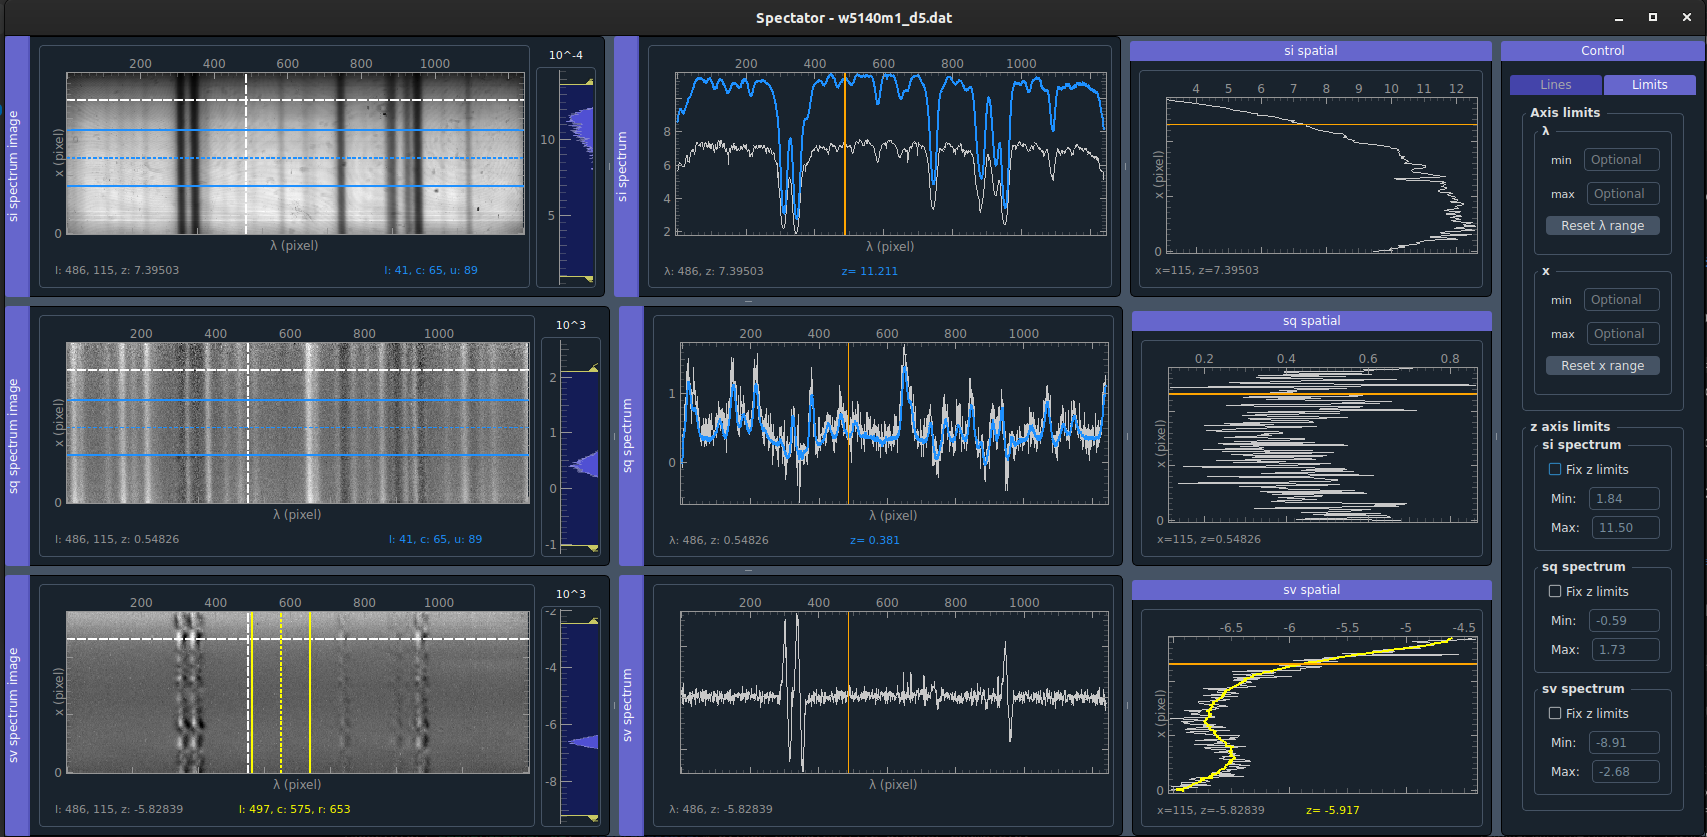
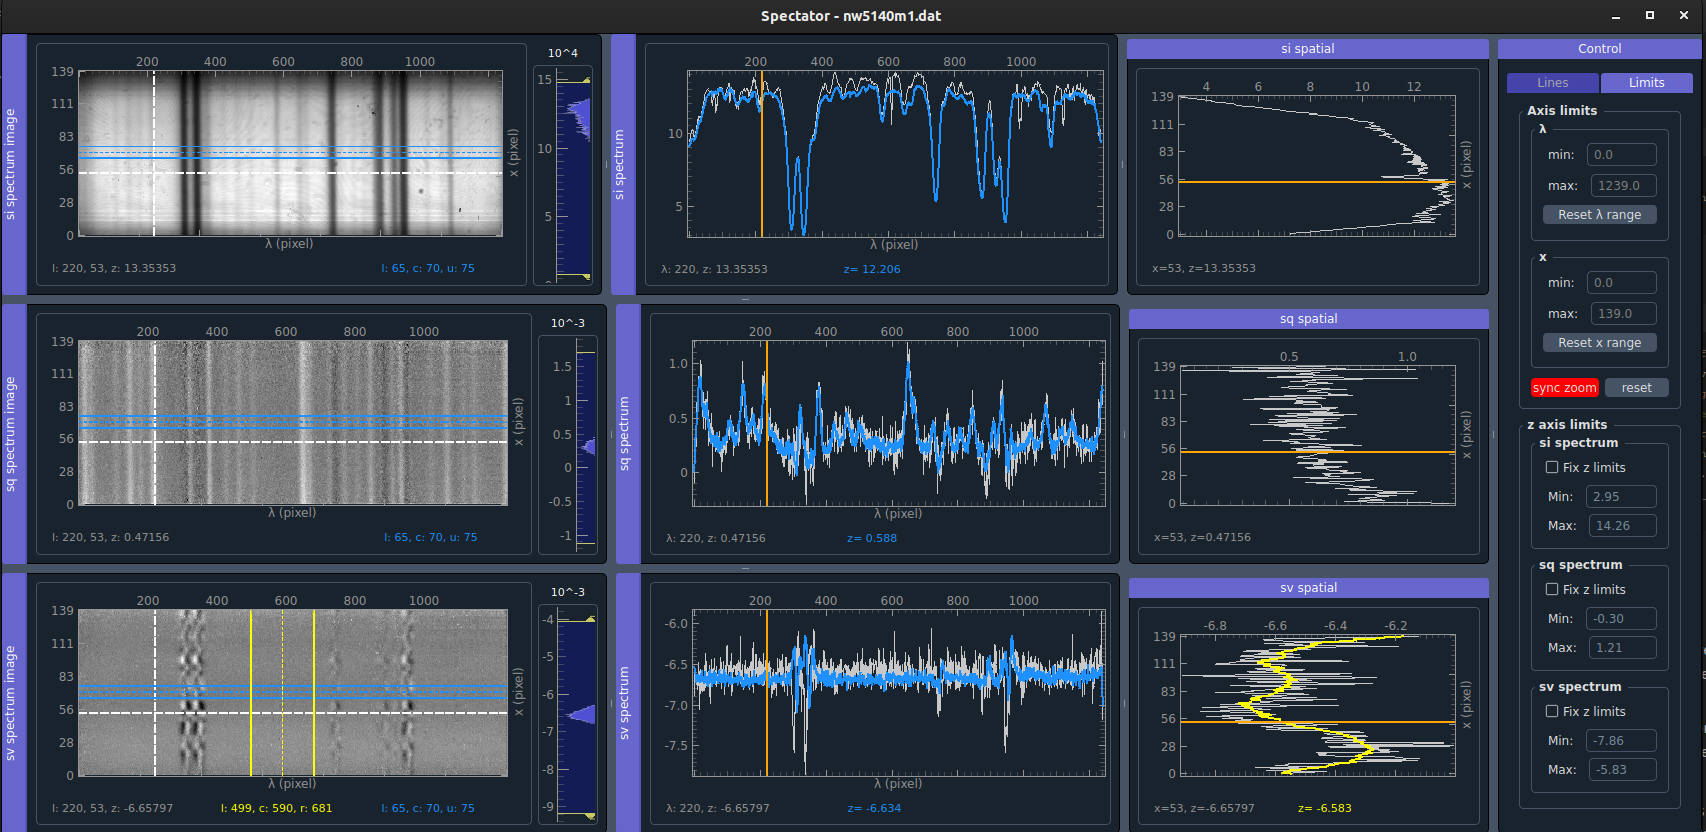
small bug for the spatial averging, new viewer Limits buttons

diff --git a/views/windows.py b/views/windows.py
@@ -159,6 +159,17 @@ class StokesSpatialWindow(BasePlotWidget):
     def _emit_hline_changed(self):
         """Emit signal when horizontal line position changes."""
         self.hLineChanged.emit(self.hLine.value())
+    
+    @QtCore.pyqtSlot(float, float, float, int)
+    def handle_spectral_avg_line_movement(self, x_low: float, x_center: float, x_high: float, source_stokes_index: int):
+        """Handle spectral averaging line movement from spectrum image window."""
+        # Convert x positions to spectral indices
+        x_idx_low = int(np.clip(np.round(x_low), 0, self.full_data.shape[0] - 1))
+        x_idx_center = int(np.clip(np.round(x_center), 0, self.full_data.shape[0] - 1))
+        x_idx_high = int(np.clip(np.round(x_high), 0, self.full_data.shape[0] - 1))
+        
+        # Update spatial data with spectral averaging
+        self.update_spatial_data_wl_avg(x_idx_low, x_idx_center, x_idx_high)
 
     def update_spatial_range(self, min_val, max_val):
         """Updates the spatial (x pixel) axis range of the spatial plot (y-axis)."""

diff --git a/controllers/viewers.py b/controllers/viewers.py
@@ -143,6 +143,8 @@ def spectator(data: np.ndarray, title: str = 'spectator', state_names: List[str]
         image_spectra[i].avgRegionChanged.connect(control_widget.handle_v_avg_line_movement)
         if i < len(spectra):
             image_spectra[i].spatialAvgRegionChanged.connect(spectra[i].handle_spatial_avg_line_movement)
+        if i < len(spatial):
+            image_spectra[i].avgRegionChanged.connect(spatial[i].handle_spectral_avg_line_movement)
         
         # Connect spatial averaging to control widget for synchronization
         image_spectra[i].spatialAvgRegionChanged.connect(control_widget.handle_spatial_avg_line_movement)
